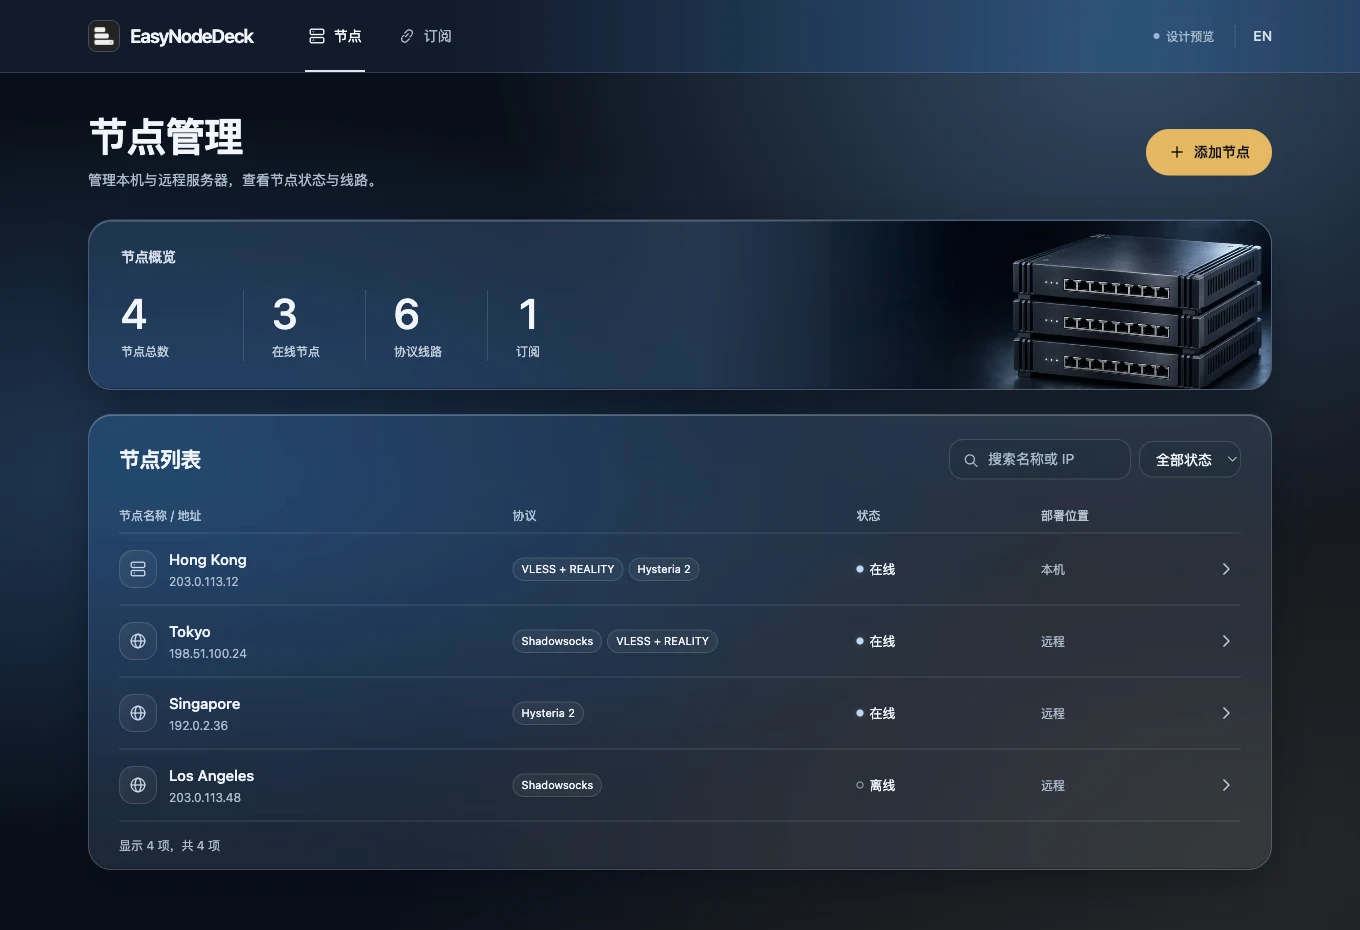
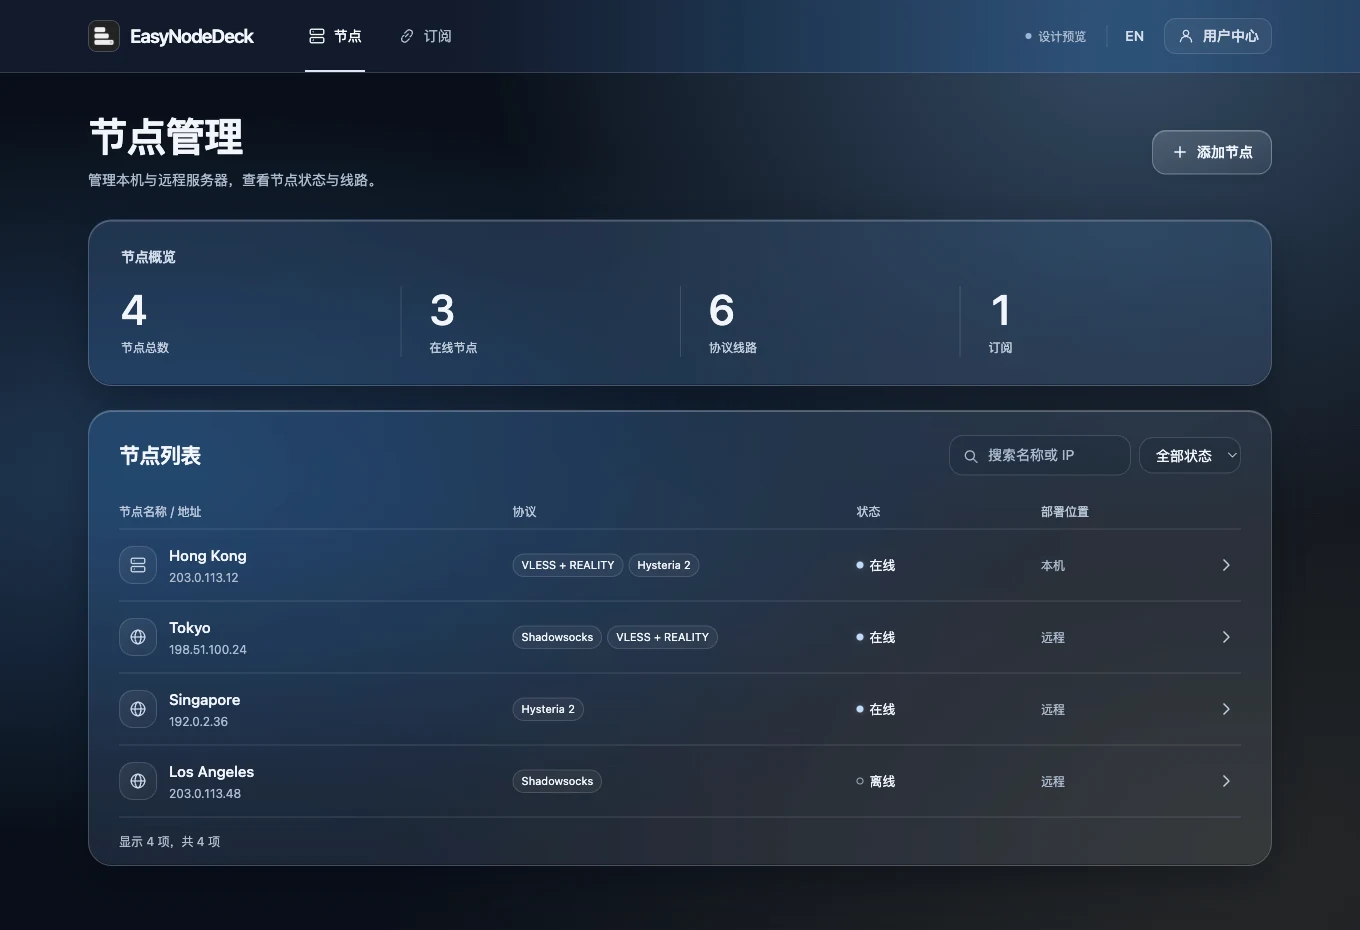
Refine glass panel controls and add demo account settings

diff --git a/web/panel.css b/web/panel.css
@@ -1,7 +1,7 @@
 :root {
   font: 14px/1.6 Inter, -apple-system, BlinkMacSystemFont, "Segoe UI", sans-serif;
   color: #f2f5fa; background: #0b1322; color-scheme: dark;
-  --muted: #acbcd0; --accent: #e4b863; --line: rgba(210,226,245,.14);
+  --muted: #acbcd0; --accent: #b7d1ed; --line: rgba(210,226,245,.14);
   --ease: 500ms cubic-bezier(.16,1,.3,1);
 }
 * {box-sizing:border-box}
@@ -25,6 +25,8 @@ nav a {gap:8px;height:100%;color:var(--muted);border-bottom:2px solid transparen
 nav a[aria-current] {color:white;border-color:#dce7f5}
 .utility {margin-left:auto;gap:20px}
 .utility button {font-weight:500;color:#d6dfeb;border-left:1px solid var(--line);padding:0 0 0 18px}
+.utility #account {display:inline-flex;align-items:center;gap:8px;padding:6px 12px;border:1px solid var(--line);border-radius:12px;background:#ffffff09}
+.utility #account:hover {background:#ffffff16}
 .preview {gap:7px;font-size:12px;color:var(--muted)}
 .preview:before {content:"";width:6px;height:6px;border-radius:50%;background:#9bb5d4}
 main {padding:40px 0 56px}
@@ -32,15 +34,14 @@ main {padding:40px 0 56px}
 h1,h2,p {margin:0}
 h1 {font-size:40px;line-height:1.15;font-weight:600;letter-spacing:-.035em}
 .page-head p {color:var(--muted);margin-top:10px}
-.primary {justify-content:center;gap:8px;background:var(--accent);color:#17140f;font-weight:600;border-radius:999px;padding:12px 22px;transition:transform var(--ease),box-shadow var(--ease)}
-.primary:hover {transform:translateY(-1px);box-shadow:0 10px 28px #e4b86332}
+.primary {justify-content:center;gap:8px;background:linear-gradient(160deg,#e2f0ff26,#b3cfeb12);border:1px solid #d6e8fa4d;color:#f0f6ff;font-weight:500;border-radius:14px;padding:10px 18px;box-shadow:inset 0 1px #ffffff24,0 4px 12px #060b141c;transition:background var(--ease),border-color var(--ease)}
+.primary:hover {background:#cfe5ff28;border-color:#d6e8fa80}
 .glass,dialog {border:1px solid #ffffff26;border-radius:24px;background:#ffffff12;backdrop-filter:blur(40px) saturate(180%);box-shadow:0 16px 40px #03071266,inset 0 1px #ffffff38,inset 0 -1px #02061059}
 .overview {margin:28px 0 24px;position:relative;overflow:hidden;isolation:isolate}
-.rack {position:absolute;inset:0 0 0 auto;width:48%;background:#080d17 url(rack.webp) no-repeat right 48%/auto 174%;mask-image:linear-gradient(90deg,transparent 0,#000 46%);z-index:-1}
 .overview-inner {padding:25px 32px 28px}
 h2 {font-size:21px;font-weight:600;letter-spacing:-.025em}
 .overview h2 {font-size:14px;color:#d1dcea;font-weight:500}
-#stats {display:flex;gap:0;margin-top:22px}
+#stats {display:grid;grid-auto-columns:minmax(0,1fr);grid-auto-flow:column;margin-top:18px}
 .stat {min-width:122px;padding:0 28px;border-left:1px solid var(--line)}
 .stat:first-child {padding-left:0;border:0}
 .stat strong,.stat span {display:block}
@@ -79,6 +80,8 @@ dialog::backdrop {background:#030810b8;backdrop-filter:blur(6px)}
 .dialog-top {margin-bottom:18px}
 #form-note:not(:empty) {display:block;margin-top:12px;color:#e8c2af}
 form,.form-stack {display:grid;gap:14px}
+.account-row {display:flex;justify-content:space-between;align-items:center;gap:14px;border-bottom:1px solid var(--line);padding:10px 0 16px}
+.account-row strong {display:block;font-weight:500;overflow-wrap:anywhere}
 form label:not(.choice) {display:grid;gap:5px;font-size:13px}
 .field {width:100%;padding:10px 12px}
 .pair {display:grid;grid-template-columns:2fr 1fr;gap:12px}
@@ -99,8 +102,9 @@ input[type=checkbox] {accent-color:#abc1dd}
   .bar,main {width:calc(100% - 32px)}.bar {height:auto;min-height:64px;flex-wrap:wrap;gap:0 12px;padding-top:14px}
   .brand {font-size:17px}nav {order:3;width:100%;height:44px;gap:24px}.utility {gap:8px}.utility button {padding-left:8px}
   main {padding-top:24px}.page-head {align-items:flex-start}h1 {font-size:30px}.page-head p {font-size:12px;max-width:26ch}
-  .primary {padding:9px 14px;white-space:nowrap}.overview {margin:20px 0 16px}.overview-inner {padding:20px}.rack {width:56%;opacity:.42}
-  .rack {width:42%;background-size:auto 112%;opacity:.2}.stat {min-width:64px;padding:0 13px}.stat strong {font-size:32px}.stat span {font-size:11px}#stats {margin-top:15px}
+  #account span {display:none}.utility #account {padding:8px}.utility .preview {display:none}
+  .primary {padding:9px 14px;white-space:nowrap}.overview {margin:20px 0 16px}.overview-inner {padding:20px}
+  .stat {min-width:0;padding:0 8px}.stat strong {font-size:32px}.stat span {font-size:11px}#stats {margin-top:15px}
   .inventory {padding:18px 16px 0}.inventory-head {align-items:stretch;flex-direction:column;gap:12px}.tools {width:100%}.search {flex:1;min-width:0}.search input {width:100%}
   .row {position:relative;grid-template-columns:minmax(0,1fr) auto 28px;gap:3px 8px;padding:12px 0}.row .tag-list {grid-column:1;grid-row:2;padding-left:0}.row .status-cell {grid-column:2;grid-row:1}.row .open {grid-column:3;grid-row:1}.row.head {display:none}.badge-icon {display:none}.row .secondary.kind {display:none}
 }

diff --git a/web/panel.js b/web/panel.js
@@ -10,6 +10,7 @@ const nodes = [
 ];
 const subs = [{id:"travel",name:"Asia Pacific",lines:["hk/1","jp/1","sg/2"]}];
 const icons = {
+  user:'<circle cx="12" cy="8" r="3.5"/><path d="M4.5 20a7.5 7.5 0 0 1 15 0"/>',
   nodes:'<rect x="3" y="3" width="18" height="7" rx="2"/><rect x="3" y="14" width="18" height="7" rx="2"/><path d="M7 6.5h.01M7 17.5h.01"/>',
   link:'<path d="m10 13 4-4m-6 2-2 2a4 4 0 0 0 6 6l3-3m1-3 2-2a4 4 0 0 0-6-6L9 8"/>',
   plus:'<path d="M12 5v14M5 12h14"/>', close:'<path d="m6 6 12 12M18 6 6 18"/>',
@@ -44,6 +45,10 @@ function renderPage() {
   document.documentElement.lang=en?"en":"zh-CN";
   $("preview").textContent=t("设计预览","Design preview");
   $("language").textContent=en?"中文":"EN";
+  const accountLabel=t("用户中心","Account");
+  $("account").innerHTML=icon("user")+"<span>"+accountLabel+"</span>";
+  $("account").setAttribute("aria-label",accountLabel);
+  $("account").title=accountLabel;
   $("nodes-tab").innerHTML=icon("nodes")+t("节点","Nodes");
   $("subs-tab").innerHTML=icon("link")+t("订阅","Subscriptions");
   $("nodes-tab").removeAttribute("aria-current");
@@ -164,8 +169,58 @@ function showSub(s) {
     catch {$("url").select();$("copy").textContent=t("请手动复制","Copy selection");}
   };
 }
+// Only a demonstration account, reset on every reload.
+const demoAccount = {username:"admin", passwordDigest:null};
+const initialDemoPassword = "Deck-preview";
+function accountHome() {
+  dialog(t("用户中心","Account"),`<div class="form-stack">
+    <div class="account-row"><div><small>${t("管理员用户名","Administrator username")}</small><strong>${esc(demoAccount.username)}</strong></div>
+      <button class="quiet" id="rename">${t("修改用户名","Change username")}</button></div>
+    <div class="account-row"><div><small>${t("登录密码","Password")}</small><strong>••••••••</strong></div>
+      <button class="quiet" id="rekey">${t("修改密码","Change password")}</button></div>
+    <small>${t("演示账号仅在当前页面生效，刷新后重置。","This demo account resets when you reload the page.")}</small></div>`);
+  $("rename").onclick=()=>editAccount(false);
+  $("rekey").onclick=()=>editAccount(true);
+}
+async function previewDigest(value) {
+  const bytes=await crypto.subtle.digest("SHA-256",new TextEncoder().encode(value));
+  return new Uint8Array(bytes).join(",");
+}
+function editAccount(password) {
+  const title=password?t("修改密码","Change password"):t("修改用户名","Change username");
+  const passwordField=(label,name,attrs="")=>`<label>${label}<input class="field" type="password" name="${name}" required autocomplete="off" ${attrs}></label>`;
+  const hint=demoAccount.passwordDigest ? t("使用刚设置的演示密码。","Use your updated demo password.")
+    : t("当前演示密码为 Deck-preview。","The current demo password is Deck-preview.");
+  dialog(title,`<form id="account-form" autocomplete="off">
+    <small>${hint}</small>
+    ${passwordField(t("当前密码","Current password"),"current")}
+    ${password?passwordField(t("新密码（至少 8 位）","New password (at least 8 characters)"),"next",'minlength="8"')+
+      passwordField(t("确认新密码","Confirm new password"),"confirmation"):
+      `<label>${t("新用户名","New username")}<input class="field" name="username" value="${esc(demoAccount.username)}" required maxlength="60"></label>`}
+    <div class="actions"><button class="quiet" type="button" id="account-back">${t("返回","Back")}</button><button class="primary">${t("保存修改","Save changes")}</button></div>
+  </form>`);
+  $("account-back").onclick=accountHome;
+  $("account-form").onsubmit=async event=>{
+    event.preventDefault();
+    const f=event.currentTarget;
+    const valid=demoAccount.passwordDigest ? await previewDigest(f.current.value)===demoAccount.passwordDigest : f.current.value===initialDemoPassword;
+    if(!valid) return notice(t("当前密码不正确","Incorrect current password"));
+    if(password) {
+      if(f.next.value!==f.confirmation.value) return notice(t("两次输入的新密码不一致","The new passwords do not match"));
+      demoAccount.passwordDigest=await previewDigest(f.next.value);
+    } else {
+      const username=f.username.value.trim();
+      if(!username) return notice(t("请输入用户名","Enter a username"));
+      demoAccount.username=username;
+    }
+    accountHome();
+    notice(password?t("演示密码已更新","Demo password updated"):t("用户名已更新","Username updated"));
+  };
+}
+$("account").onclick=accountHome;
 $("create").onclick=()=>isSubs()?editSub():editNode();
 $("close").onclick=()=>$("dialog").close();
+$("dialog").addEventListener("close",()=>{if(!$("dialog").open) $("body").replaceChildren();});
 $("search").oninput=renderList;
 $("filter").onchange=renderList;
 $("language").onclick=()=>{en=!en;renderPage();};

diff --git a/web/index.html b/web/index.html
@@ -14,11 +14,11 @@
   <header><div class="bar">
     <a href="#nodes" class="brand"><img src="../assets/logo.png" alt="">EasyNodeDeck</a>
     <nav aria-label="Navigation"><a id="nodes-tab" href="#nodes"></a><a id="subs-tab" href="#subscriptions"></a></nav>
-    <div class="utility"><span class="preview" id="preview"></span><button id="language"></button></div>
+    <div class="utility"><span class="preview" id="preview"></span><button id="language"></button><button id="account" aria-haspopup="dialog"></button></div>
   </div></header>
   <main>
     <div class="page-head"><div><h1 id="title"></h1><p id="intro"></p></div><button class="primary" id="create"></button></div>
-    <section class="overview glass"><div class="rack"></div><div class="overview-inner"><h2 id="summary-title"></h2><div id="stats"></div></div></section>
+    <section class="overview glass"><div class="overview-inner"><h2 id="summary-title"></h2><div id="stats"></div></div></section>
     <section class="inventory glass"><div class="inventory-head"><h2 id="list-title"></h2><div class="tools"><label class="search"><span id="search-icon"></span><input type="search" id="search"></label><select id="filter"></select></div></div>
       <div id="list"></div><p id="count"></p>
     </section>
